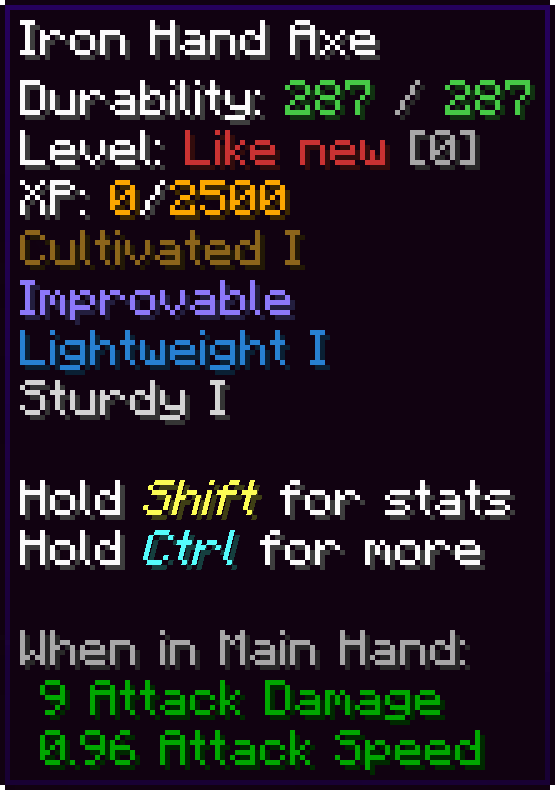
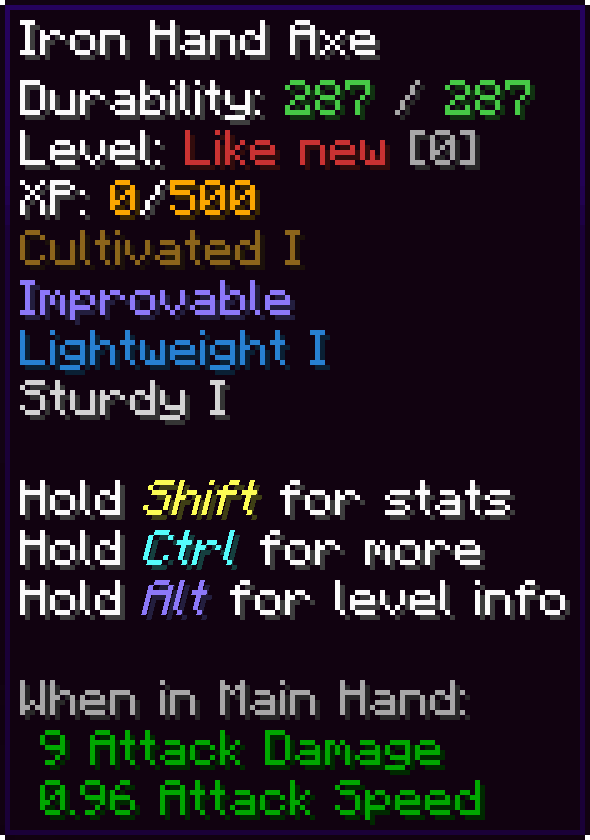
Updated README and CHANGELOG. Mod version bumped.

diff --git a/README.md b/README.md
@@ -1,10 +1,10 @@
 # Tinkers' Levelling Addon
 
-Simple, **unofficial**addon mod for [Tinkers' Construct](https://www.curseforge.com/minecraft/mc-mods/tinkers-construct) for modern Minecraft versions. Based on the [Tinkers' Tool Leveling](https://www.curseforge.com/minecraft/mc-mods/tinkers-tool-leveling) addon for Minecraft 1.12.2.
+Simple, **unofficial** addon mod for [Tinkers' Construct](https://www.curseforge.com/minecraft/mc-mods/tinkers-construct) for modern Minecraft versions. Based on the [Tinkers' Tool Leveling](https://www.curseforge.com/minecraft/mc-mods/tinkers-tool-leveling) addon for Minecraft 1.12.2.
 
-This addon adds a single new modifier for Tinkers' tools and armors - _Improvable_. Unlike original addon, tool levelling is not available from the start and must be applied to each piece of gear separately. After applying your tools are able to earn XP and level up. XP is earned by performing tool's intended actions like mining, harvesting, dealing damage, etc. On level up additional modifier slot is rewarded.
+This addon adds a single new modifier for Tinkers' tools and armors - _Improvable_. Unlike original addon, tool levelling is not available from the start and must be applied to each piece of gear separately. After applying your tools are able to earn XP and level up. XP is earned by performing tool's intended actions like mining, harvesting, dealing damage, etc. On level up additional modifier slot and/or stat is rewarded.
 
-**Disclaimer:** Since Tinkers' Construct is based around limited amount of modifier slots, this addon completely disrupts its balance!
+**Disclaimer:** Since Tinkers' Construct is based around limited amount of modifier slots and stats, this addon completely disrupts its balance!
 
 This is an **unofficial** addon. Please do **not** reach out to the Tinkers' Construct developers for support and be sure to mention that this mod is installed if you do have an issue with Tinkers' Construct itself. You can report bugs and crashes related to Tinkers' Levelling Addon [here](https://github.com/Pyre540/tinkers-levelling-addon/issues).
 
@@ -12,8 +12,8 @@ This is an **unofficial** addon. Please do **not** reach out to the Tinkers' Con
 
 - Earn tool XP by performing actions with your tools (mining, harvesting, shearing, attacking)
 - Earn armor XP by taking damage or using Thorns modifier
-- Gain 1 free modifier per level up
-- Customize the order of modifier slot types gained after each level up
+- Gain 1 free modifier and/or stat per level up
+- Customize the order of modifier slot and/or stat types gained after each level up (or set it to random)
 - Set maximum level (or make it unlimited)
 - Adjust level requirements and experience sources
 - Customize level up sound and messages
@@ -27,6 +27,11 @@ To get started simply apply _Improvable_ modifier to your tool/armor piece. As i
 After that your tool is ready to earn some XP, so go and mine some stuff, cut some trees and kill some mobs!
 
 <img src="https://raw.githubusercontent.com/Pyre540/tinkers-levelling-addon/master/examples/image/example-tool.png" alt="Example tool" height="300px"/>
+
+Hold _Alt_ key to display summary of perks gained so far.
+
+<img src="https://raw.githubusercontent.com/Pyre540/tinkers-levelling-addon/master/examples/image/example-level-info.png" alt="Example level info" height="300px"/>
+
 
 ## License
 

diff --git a/CHANGELOG.md b/CHANGELOG.md
@@ -1,5 +1,10 @@
 # CHANGELOG
-## 1.0.2
+## 1.1.0
+### Added
+- Option to enable/disable modifiers as level up reward.
+- Option to receive tool/armor stats on level up (disabled by default).
+- Option to randomize modifiers and stats on level up. This can be configured independently for tools and armor. You can define a pool from which the mod will draw modifier/stat, which allows you to influence the probability of receiving each modifier/stat.
+- Level info tooltip. Shows modifiers and stats received so far and rewards for the next level. Next rewards are shown only if tool/armor does not yet reach max level and rewards are not set to random.
 ### Fixed
 - Gaining experience by taking damage triggers too often.
 ## 1.0.1
